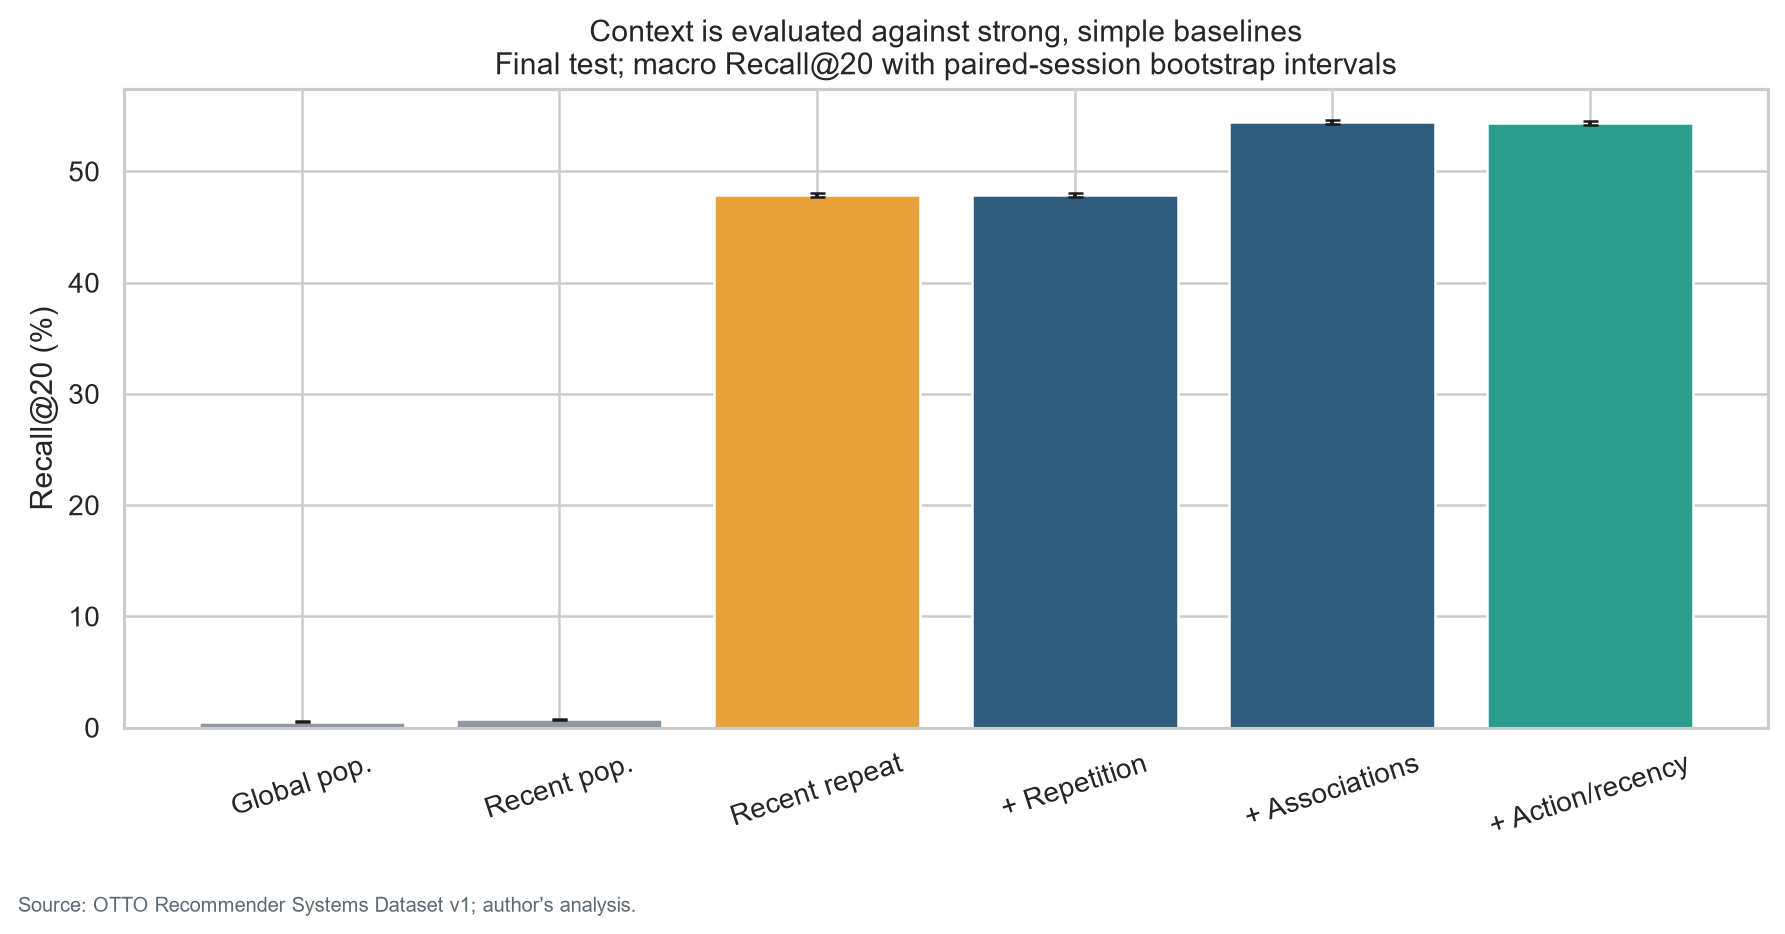
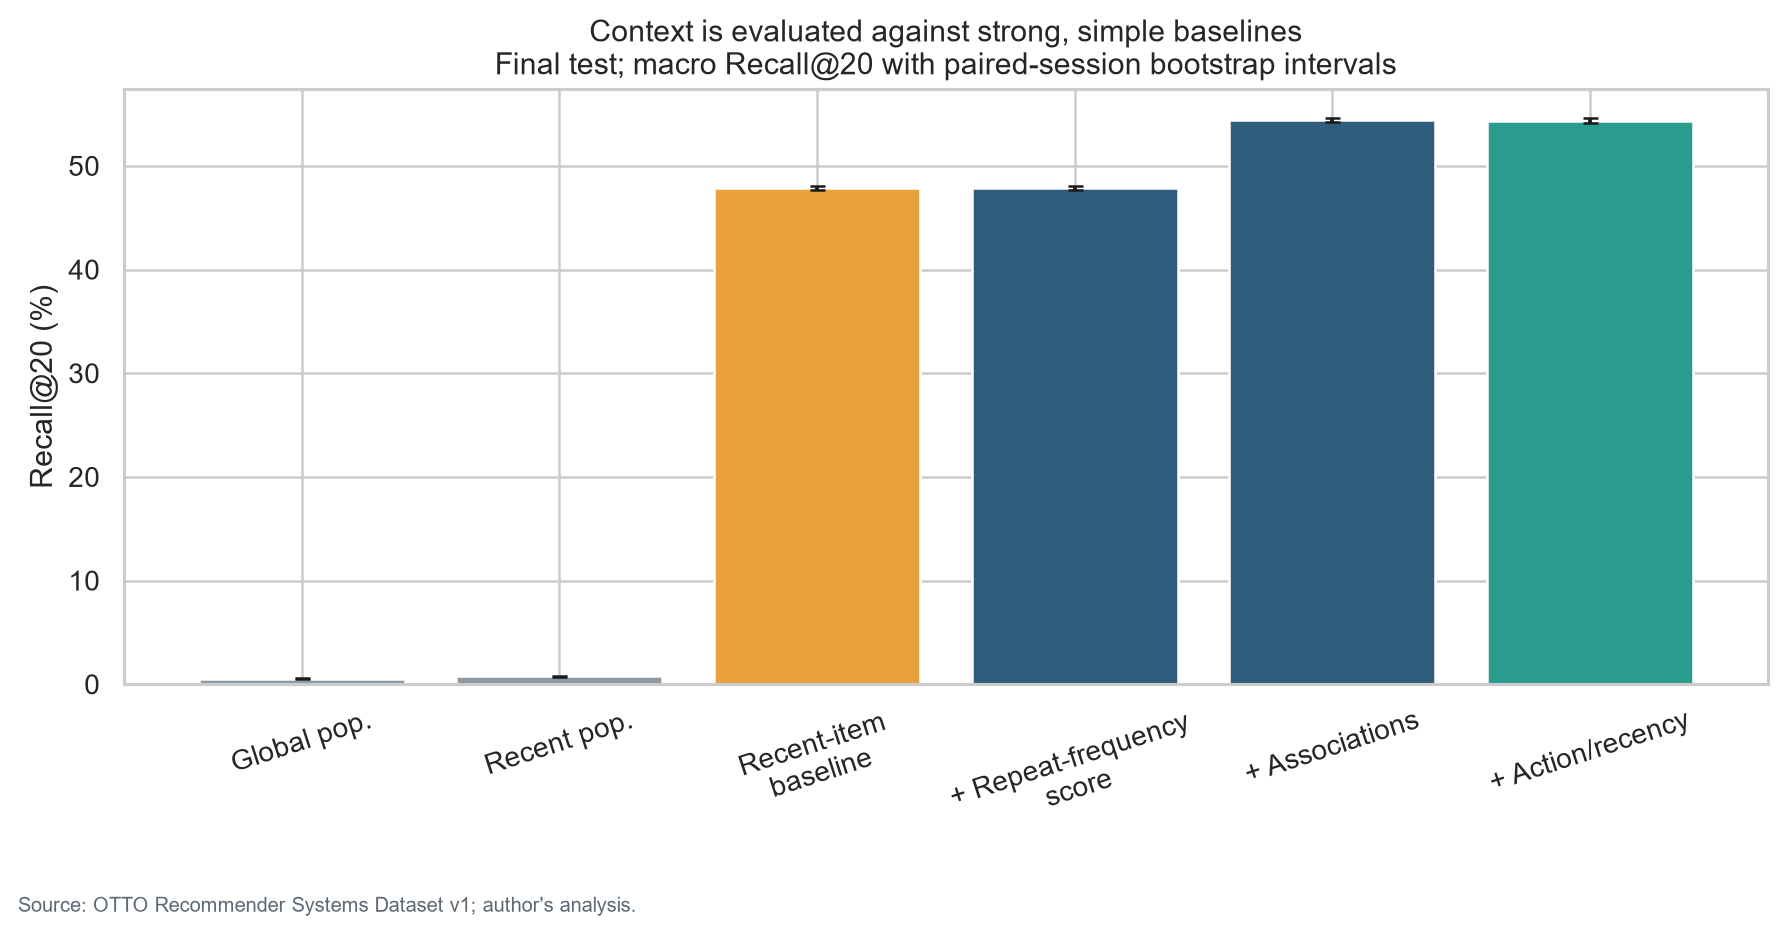
Clarify recommendation stages and licensing

diff --git a/src/reporting.py b/src/reporting.py
@@ -20,8 +20,8 @@ def pp(record: dict) -> str:
 
 
 def metric_table(results: dict) -> str:
-    labels = {"global":"Global popularity", "recent":"Recent popularity", "repeat":"Recent repeat",
-              "r":"+ Repetition", "ra":"+ Associations", "c":"+ Action/recency context"}
+    labels = {"global":"Global popularity", "recent":"Recent popularity", "repeat":"Recent-item baseline",
+              "r":"+ Repeat-frequency score", "ra":"+ Associations", "c":"+ Action/recency context"}
     lines = ["| Strategy | Recall@20 | MRR@20 |", "|---|---:|---:|"]
     for method, label in labels.items():
         recall, mrr = results["metrics"][f"{method}_recall"], results["metrics"][f"{method}_mrr"]
@@ -38,7 +38,7 @@ def write_reports() -> None:
     context_direction = "improved" if delta_repeat["estimate"] > 0 else "did not improve"
     executive = f"""# Executive summary
 
-Recent behavioral context **{context_direction} Recall@20 relative to the strong recent-repeat baseline by {pp(delta_repeat)}** on {flow['target_positive']:,} final-test prefixes with an observed target. Relative to recent popularity, the difference was {pp(delta_recent)}. These are offline predictive differences, not causal or revenue effects.
+Recent behavioral context **{context_direction} Recall@20 relative to the strong recent-item baseline by {pp(delta_repeat)}** on {flow['target_positive']:,} final-test prefixes with an observed target. Relative to recent popularity, the difference was {pp(delta_recent)}. These are offline predictive differences, not causal or revenue effects.
 
 The analysis processed all {source['train']['sessions']+source['test']['sessions']:,} source sessions and {source['train']['events']+source['test']['events']:,} events without sampling. A recommendation is made after five interactions (including the whole cutoff timestamp block); the target is the distinct item set at the first future cart/order timestamp within 24 hours. Historical features are fixed before each temporal period.
 
@@ -81,10 +81,10 @@ Final test contains {flow['eligible_after_time_and_horizon']:,} eligible prefixe
 
 Incremental Recall@20 differences:
 
-- Repetition after recent popularity: {pp(test['differences']['r_minus_recent_recall'])}.
-- Associations after repetition: {pp(test['differences']['ra_minus_r_recall'])}.
+- Repeat-frequency score after recent popularity: {pp(test['differences']['r_minus_recent_recall'])}.
+- Associations after the repeat-frequency score: {pp(test['differences']['ra_minus_r_recall'])}.
 - Action/recency context after associations: {pp(test['differences']['c_minus_ra_recall'])}.
-- Full context versus recent repeat: {pp(delta_repeat)}.
+- Full context versus the recent-item baseline: {pp(delta_repeat)}.
 
 Validation used the preceding week with independently frozen history. Full validation metrics are machine-readable in `reports/results_validation.json`; it is a temporal replication and pipeline check, not a score-shopping stage.
 
@@ -102,13 +102,16 @@ See `PROJECT_DESIGN.md`, `sql/`, the four executed notebooks and `ETHICS_AND_LIM
 
     readme = f"""# Beyond Popularity: Consumer Journeys and Contextual Recommendations
 
-**A SQL-first behavioral data science case study asking whether recent session context improves next cart/order recommendation over popularity and repeat baselines.**
+[![Analytical contracts](https://github.com/dariodiazbarross/consumer-journeys-otto/actions/workflows/ci.yml/badge.svg)](https://github.com/dariodiazbarross/consumer-journeys-otto/actions/workflows/ci.yml)
+[![License: MIT](https://img.shields.io/badge/Code%20license-MIT-2A9D8F.svg)](LICENSE)
+
+**A SQL-first behavioral data science case study asking whether recent session context improves next cart/order recommendation over popularity and a recent-item baseline.**
 
 ![Incremental Recall@20](figures/04_incremental_recall.png)
 
 ## Executive finding
 
-On {flow['target_positive']:,} held-out positive test prefixes, full context {context_direction} Recall@20 versus recent repeat by **{pp(delta_repeat)}** and differed from recent popularity by **{pp(delta_recent)}**. Candidate retrieval covered {pct(test['failure_decomposition']['candidate_recall'])} of target-item mass. The result quantifies offline agreement under a fixed protocol; it does not estimate recommendation-caused conversion or revenue.
+On {flow['target_positive']:,} held-out positive test prefixes, full context {context_direction} Recall@20 versus the recent-item baseline by **{pp(delta_repeat)}** and differed from recent popularity by **{pp(delta_recent)}**. Candidate retrieval covered {pct(test['failure_decomposition']['candidate_recall'])} of target-item mass. The result quantifies offline agreement under a fixed protocol; it does not estimate recommendation-caused conversion or revenue.
 
 {metric_table(test)}
 
@@ -160,7 +163,7 @@ The subgroup report includes head, tail, rare and mixed target sets; exactly-fiv
 
 ## Business interpretation
 
-- Use recent popularity as a dependable cold/fallback layer and recent repeat as the operational complexity benchmark.
+- Use recent popularity as a dependable cold/fallback layer and the recent-item baseline as the operational complexity benchmark.
 - Add context only where the paired improvement, candidate coverage and latency justify it; the frozen ablation identifies the contributing signal.
 - If retrieval loss dominates, improve candidate sources before tuning ranking. If ranking loss dominates, better candidate scoring is the more direct next step.
 - Run a controlled online experiment with real exposure, inventory and guardrail logs before any claim about conversion, revenue, satisfaction or welfare.

diff --git a/src/notebooks.py b/src/notebooks.py
@@ -49,13 +49,13 @@ def report(name): return json.loads((ROOT/'reports'/name).read_text())"""
             code("a=report('data_audit.json')\npd.DataFrame(a['session_summary'])[['source','median_events','mean_events','median_duration_hours','mean_repeat_share']]"),
             code("t=pd.DataFrame(a['action_block_transitions'])\nt.assign(transition_share=t.transitions/t.groupby(['source','source_action']).transitions.transform('sum')).query(\"source=='test'\").head(16)"),
             markdown("![Journey depth](../figures/02_journey_depth.png)\n\n![Block transitions](../figures/03_action_transitions.png)")
-        ], "## KEY FINDINGS\n\nJourney depth is strongly right-skewed; timestamp-block transitions are dominated by observable clicks, with carts, orders and mixed blocks kept distinct. Repeat share describes logged breadth, not loyalty or indecision.\n\n## LIMITATIONS\n\nActions lack price, category, availability and exposure context; blocks do not reveal within-timestamp order.\n\n## NEXT STEP\n\nCompare frozen popularity and recent-repeat baselines before adding context."),
+        ], "## KEY FINDINGS\n\nJourney depth is strongly right-skewed; timestamp-block transitions are dominated by observable clicks, with carts, orders and mixed blocks kept distinct. Repeat share describes logged breadth, not loyalty or indecision.\n\n## LIMITATIONS\n\nActions lack price, category, availability and exposure context; blocks do not reveal within-timestamp order.\n\n## NEXT STEP\n\nCompare frozen popularity and recent-item baselines before adding context."),
         "03_recommendation_baselines.ipynb": build("03 — Recommendation baselines", "Examine temporal validation and the incremental, fixed-score strategy design.", [
             code(setup),
             code("p=json.loads((ROOT/'config/protocol.json').read_text())\np"),
             code("v=report('results_validation.json')\npd.DataFrame([{'strategy':k.replace('_recall',''),'recall@20':x['estimate'],'lower':x['ci95'][0],'upper':x['ci95'][1]} for k,x in v['metrics'].items() if k.endswith('_recall')])"),
             markdown("The validation week checks temporal replication and pipeline behavior. It does not select a favorable target, candidate rule or metric.")
-        ], "## KEY FINDINGS\n\nPopularity and recent repeat provide nontrivial benchmarks. Incremental strategies share the same candidate pool after repetition so the ablation isolates information used in ranking.\n\n## LIMITATIONS\n\nHand-set scores are transparent heuristics, not calibrated probabilities; validation is one week.\n\n## NEXT STEP\n\nEvaluate the untouched test week with paired uncertainty and diagnose retrieval versus ranking."),
+        ], "## KEY FINDINGS\n\nPopularity and the recent-item baseline provide nontrivial benchmarks. Incremental strategies share the same candidate pool after the repeat-frequency stage so the ablation isolates information used in ranking.\n\n## LIMITATIONS\n\nHand-set scores are transparent heuristics, not calibrated probabilities; validation is one week.\n\n## NEXT STEP\n\nEvaluate the untouched test week with paired uncertainty and diagnose retrieval versus ranking."),
         "04_evaluation_and_errors.ipynb": build("04 — Evaluation and errors", "Answer the primary question on the untouched final period and translate failures responsibly.", [
             code(setup),
             code("r=report('results_test.json')\npd.DataFrame([{'strategy':k.replace('_recall',''),'recall@20':x['estimate'],'ci95':x['ci95']} for k,x in r['metrics'].items() if k.endswith('_recall')])"),

diff --git a/src/visualize.py b/src/visualize.py
@@ -60,7 +60,7 @@ def create_figures() -> None:
 
     test = load("results_test.json")
     methods = ["global","recent","repeat","r","ra","c"]
-    labels = ["Global pop.","Recent pop.","Recent repeat","+ Repetition","+ Associations","+ Action/recency"]
+    labels = ["Global pop.","Recent pop.","Recent-item\nbaseline","+ Repeat-frequency\nscore","+ Associations","+ Action/recency"]
     estimates = [test["metrics"][f"{m}_recall"]["estimate"]*100 for m in methods]
     intervals = [test["metrics"][f"{m}_recall"]["ci95"] for m in methods]
     errors = np.array([[e-l*100, u*100-e] for e,(l,u) in zip(estimates,intervals)]).T
@@ -70,7 +70,7 @@ def create_figures() -> None:
     finish("04_incremental_recall")
 
     names=["r_minus_recent_recall","ra_minus_r_recall","c_minus_ra_recall","c_minus_repeat_recall"]
-    labels2=["Repetition vs recent pop.","Associations after repetition","Action/recency after associations","Full context vs recent repeat"]
+    labels2=["Repeat-frequency vs recent pop.","Associations after repeat-frequency","Action/recency after associations","Full context vs recent-item baseline"]
     d=[test["differences"][n]["estimate"]*100 for n in names]; ci=[test["differences"][n]["ci95"] for n in names]
     xerr=np.array([[v-l*100,u*100-v] for v,(l,u) in zip(d,ci)]).T
     fig,ax=plt.subplots(figsize=(9,5)); ax.errorbar(d,labels2,xerr=xerr,fmt="o",color=TEAL,capsize=4,markersize=8); ax.axvline(0,color="#333",linewidth=1)
@@ -85,7 +85,7 @@ def create_figures() -> None:
 
     groups=pd.DataFrame(test["subgroups"]["target_popularity_group"]); order=[x for x in ["head","tail","rare","mixed"] if x in set(groups.group)]; groups=groups.set_index("group").loc[order]
     fig,ax=plt.subplots(figsize=(8.5,5)); x=np.arange(len(groups)); w=.36
-    ax.bar(x-w/2,groups.repeat_recall*100,w,label="Recent repeat",color=ORANGE); ax.bar(x+w/2,groups.c_recall*100,w,label="Full context",color=TEAL)
+    ax.bar(x-w/2,groups.repeat_recall*100,w,label="Recent-item baseline",color=ORANGE); ax.bar(x+w/2,groups.c_recall*100,w,label="Full context",color=TEAL)
     ax.set(title="Item history defines where recommendation is hardest\nRecall@20 by target popularity group; labels show evaluated prefixes", ylabel="Recall@20 (%)",xlabel="",xticks=x,xticklabels=[f"{v.title()}\nN={groups.loc[v,'n']:,}" for v in groups.index]); ax.legend(frameon=False)
     finish("07_popularity_errors")
 

diff --git a/PROJECT_DESIGN.md b/PROJECT_DESIGN.md
@@ -7,8 +7,8 @@ freeze. The initial Git commit preserves this document. No metric-driven changes
 ## Question and estimand
 
 How much does recent behavioral context improve recommendation of products
-receiving the next cart or order action compared with popularity and recent-repeat
-strategies? The estimand is the **mean per-prefix Recall@20**, conditional on an
+receiving the next cart or order action compared with popularity and a recent-item
+baseline? The estimand is the **mean per-prefix Recall@20**, conditional on an
 observable next cart/order within 24 hours, for eligible official test sessions.
 This is offline prediction, not a treatment effect or revenue estimate.
 
@@ -86,8 +86,8 @@ items (unmatched sources contribute zero).
 |---|---|
 | Global popularity | Historical popularity descending |
 | Recent popularity (P) | Seven-day historical popularity descending |
-| Recent repeat | Seen items first, latest observed timestamp descending, count descending; recent then global popularity fallback |
-| + Repetition (R) | `r_i + 0.05 p_i` |
+| Recent-item baseline | Seen items first, latest observed timestamp descending, count descending; recent then global popularity fallback |
+| + Repeat-frequency score (R) | `r_i + 0.05 p_i` |
 | + Associations (RA) | `r_i + a_i + 0.05 p_i` |
 | + Action/recency context (C) | `r*_i + a*_i + 0.05 p_i` |
 
@@ -98,7 +98,7 @@ weights, divided by total prefix weight. These weights are transparent heuristic
 not measurements of intention or optimized business values. The methods are
 scores, not calibrated probabilities. All methods return at most 20 unique items.
 The popularity baselines use their own top-20 lists; R/RA/C share the candidate
-union so changes after R isolate ranking information. Recent repeat is a strong
+union so changes after R isolate ranking information. The recent-item baseline is a strong
 additional comparator, not hidden inside the ablation.
 
 ## Metrics and uncertainty
@@ -116,7 +116,7 @@ additional comparator, not hidden inside the ablation.
   One prefix per session avoids event-level pseudo-replication. Intervals are
   conditional on fitted historical tables and this observed week, not uncertainty
   over retraining, future weeks, or causal effects. No multiplicity-adjusted claims.
-- Compare every incremental step, C versus recent repeat, and C versus popularity.
+- Compare every incremental step, C versus the recent-item baseline, and C versus popularity.
   Report percentage-point differences and interval widths, including null results.
 
 ## Error and journey analyses
@@ -132,7 +132,7 @@ prefixes separate. Prefixes of exactly five versus more than five events; repeat
 share at least 40% versus lower; previous cart versus none; click-only versus
 other action history. Report N, Recall/MRR, candidate coverage and uncertainty;
 do not interpret groups with fewer than 100 prefixes. Bootstrap subgroup
-performance and C–recent-repeat differences. These are behavioral descriptions,
+performance and C-to-recent-item-baseline differences. These are behavioral descriptions,
 not psychological segments.
 
 ## Audit, exclusions and scale

diff --git a/README.md b/README.md
@@ -1,19 +1,22 @@
 # Beyond Popularity: Consumer Journeys and Contextual Recommendations
 
-**A SQL-first behavioral data science case study asking whether recent session context improves next cart/order recommendation over popularity and repeat baselines.**
+[![Analytical contracts](https://github.com/dariodiazbarross/consumer-journeys-otto/actions/workflows/ci.yml/badge.svg)](https://github.com/dariodiazbarross/consumer-journeys-otto/actions/workflows/ci.yml)
+[![License: MIT](https://img.shields.io/badge/Code%20license-MIT-2A9D8F.svg)](LICENSE)
+
+**A SQL-first behavioral data science case study asking whether recent session context improves next cart/order recommendation over popularity and a recent-item baseline.**
 
 ![Incremental Recall@20](figures/04_incremental_recall.png)
 
 ## Executive finding
 
-On 200,864 held-out positive test prefixes, full context improved Recall@20 versus recent repeat by **+6.48 pp (95% CI +6.37 to +6.59)** and differed from recent popularity by **+53.60 pp (95% CI +53.38 to +53.80)**. Candidate retrieval covered 56.12% of target-item mass. The result quantifies offline agreement under a fixed protocol; it does not estimate recommendation-caused conversion or revenue.
+On 200,864 held-out positive test prefixes, full context improved Recall@20 versus the recent-item baseline by **+6.48 pp (95% CI +6.37 to +6.59)** and differed from recent popularity by **+53.60 pp (95% CI +53.38 to +53.80)**. Candidate retrieval covered 56.12% of target-item mass. The result quantifies offline agreement under a fixed protocol; it does not estimate recommendation-caused conversion or revenue.
 
 | Strategy | Recall@20 | MRR@20 |
 |---|---:|---:|
 | Global popularity | 0.53% [0.50%, 0.56%] | 0.15% [0.14%, 0.16%] |
 | Recent popularity | 0.77% [0.73%, 0.81%] | 0.38% [0.35%, 0.40%] |
-| Recent repeat | 47.90% [47.68%, 48.11%] | 40.56% [40.36%, 40.76%] |
-| + Repetition | 47.90% [47.68%, 48.11%] | 32.69% [32.52%, 32.86%] |
+| Recent-item baseline | 47.90% [47.68%, 48.11%] | 40.56% [40.36%, 40.76%] |
+| + Repeat-frequency score | 47.90% [47.68%, 48.11%] | 32.69% [32.52%, 32.86%] |
 | + Associations | 54.46% [54.24%, 54.66%] | 33.60% [33.42%, 33.76%] |
 | + Action/recency context | 54.38% [54.16%, 54.58%] | 35.63% [35.45%, 35.80%] |
 
@@ -65,7 +68,7 @@ The subgroup report includes head, tail, rare and mixed target sets; exactly-fiv
 
 ## Business interpretation
 
-- Use recent popularity as a dependable cold/fallback layer and recent repeat as the operational complexity benchmark.
+- Use recent popularity as a dependable cold/fallback layer and the recent-item baseline as the operational complexity benchmark.
 - Add context only where the paired improvement, candidate coverage and latency justify it; the frozen ablation identifies the contributing signal.
 - If retrieval loss dominates, improve candidate sources before tuning ranking. If ranking loss dominates, better candidate scoring is the more direct next step.
 - Run a controlled online experiment with real exposure, inventory and guardrail logs before any claim about conversion, revenue, satisfaction or welfare.

diff --git a/reports/TECHNICAL_REPORT.md b/reports/TECHNICAL_REPORT.md
@@ -8,17 +8,17 @@ Final test contains 632,645 eligible prefixes; 200,864 have an observed first fu
 |---|---:|---:|
 | Global popularity | 0.53% [0.50%, 0.56%] | 0.15% [0.14%, 0.16%] |
 | Recent popularity | 0.77% [0.73%, 0.81%] | 0.38% [0.35%, 0.40%] |
-| Recent repeat | 47.90% [47.68%, 48.11%] | 40.56% [40.36%, 40.76%] |
-| + Repetition | 47.90% [47.68%, 48.11%] | 32.69% [32.52%, 32.86%] |
+| Recent-item baseline | 47.90% [47.68%, 48.11%] | 40.56% [40.36%, 40.76%] |
+| + Repeat-frequency score | 47.90% [47.68%, 48.11%] | 32.69% [32.52%, 32.86%] |
 | + Associations | 54.46% [54.24%, 54.66%] | 33.60% [33.42%, 33.76%] |
 | + Action/recency context | 54.38% [54.16%, 54.58%] | 35.63% [35.45%, 35.80%] |
 
 Incremental Recall@20 differences:
 
-- Repetition after recent popularity: +47.13 pp (95% CI +46.92 to +47.33).
-- Associations after repetition: +6.56 pp (95% CI +6.45 to +6.67).
+- Repeat-frequency score after recent popularity: +47.13 pp (95% CI +46.92 to +47.33).
+- Associations after the repeat-frequency score: +6.56 pp (95% CI +6.45 to +6.67).
 - Action/recency context after associations: -0.08 pp (95% CI -0.11 to -0.06).
-- Full context versus recent repeat: +6.48 pp (95% CI +6.37 to +6.59).
+- Full context versus the recent-item baseline: +6.48 pp (95% CI +6.37 to +6.59).
 
 Validation used the preceding week with independently frozen history. Full validation metrics are machine-readable in `reports/results_validation.json`; it is a temporal replication and pipeline check, not a score-shopping stage.
 

diff --git a/reports/FINAL_QUALITY_AUDIT.md b/reports/FINAL_QUALITY_AUDIT.md
@@ -22,7 +22,7 @@ notebooks and ethics document distinguish description, prediction and causality.
 
 Candidate retrieval and ranking use separate grains and diagnostics. Targets never
 enter candidates; popularity, repeat and association baselines are deterministic;
-the fixed ablation isolates repetition, associations, then action/recency context.
+the fixed ablation isolates repeat-frequency scoring, associations, then action/recency context.
 Candidate recall, top-20 loss, coverage and item-history subgroups identify that
 retrieval, especially outside the historical head, deserves more attention than
 minor ranking refinements. V1 does not implement the proposed LightGBM extension.
@@ -37,7 +37,7 @@ without downloading raw data.
 
 ## Hiring Manager
 
-The case study shows judgement through a strong recent-repeat benchmark, resource
+The case study shows judgement through a strong recent-item benchmark, resource
 measurement before infrastructure choice, full-data processing on constrained
 hardware, honest ablations, error decomposition and explicit business boundaries.
 The recommendation is conditional: context adds offline predictive information,

diff --git a/reports/EXECUTIVE_SUMMARY.md b/reports/EXECUTIVE_SUMMARY.md
@@ -1,6 +1,6 @@
 # Executive summary
 
-Recent behavioral context **improved Recall@20 relative to the strong recent-repeat baseline by +6.48 pp (95% CI +6.37 to +6.59)** on 200,864 final-test prefixes with an observed target. Relative to recent popularity, the difference was +53.60 pp (95% CI +53.38 to +53.80). These are offline predictive differences, not causal or revenue effects.
+Recent behavioral context **improved Recall@20 relative to the strong recent-item baseline by +6.48 pp (95% CI +6.37 to +6.59)** on 200,864 final-test prefixes with an observed target. Relative to recent popularity, the difference was +53.60 pp (95% CI +53.38 to +53.80). These are offline predictive differences, not causal or revenue effects.
 
 The analysis processed all 14,571,582 source sessions and 230,567,389 events without sampling. A recommendation is made after five interactions (including the whole cutoff timestamp block); the target is the distinct item set at the first future cart/order timestamp within 24 hours. Historical features are fixed before each temporal period.
 
